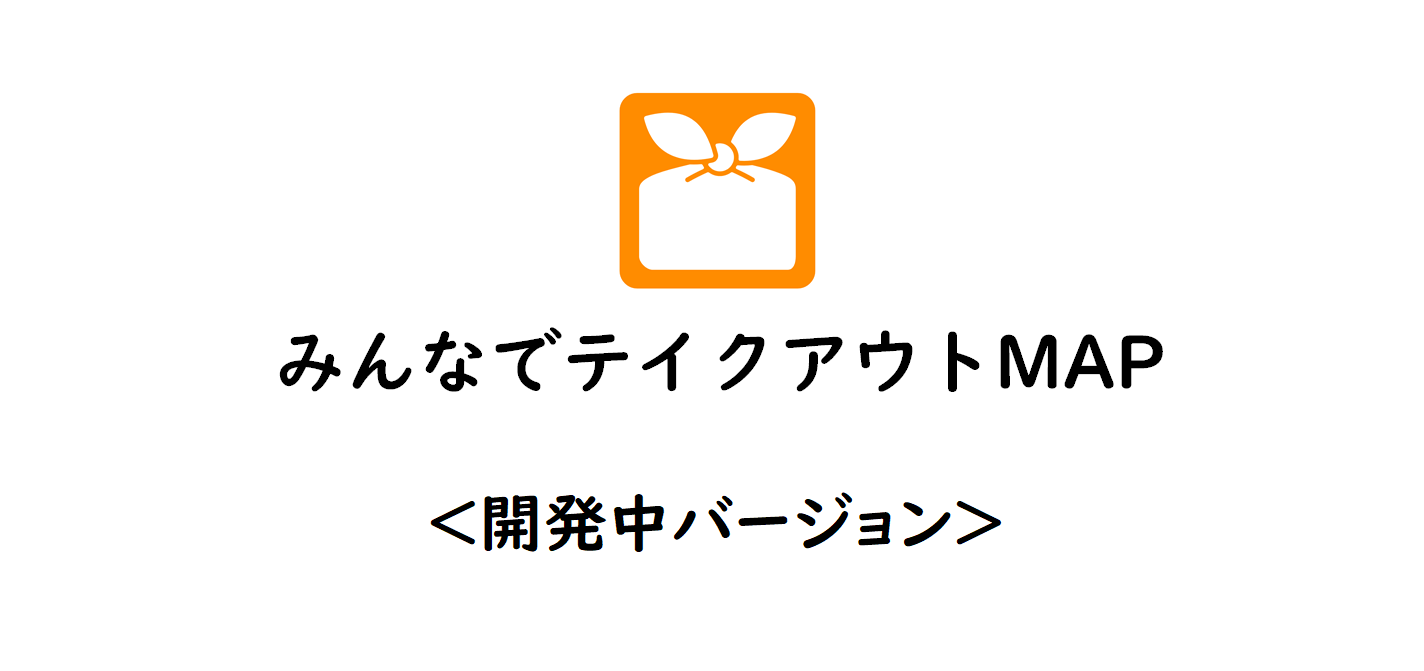
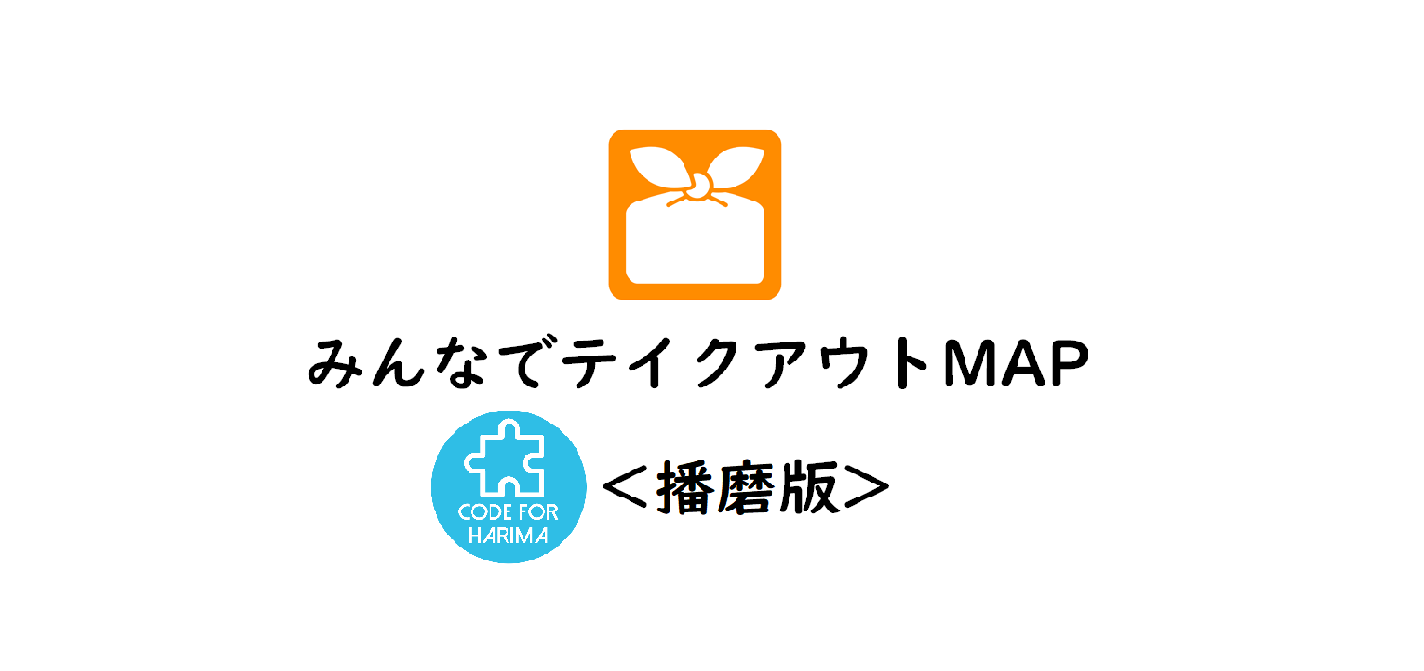
Code for Harima用に変更

Changed region(s): [[0.2781, 0.5961, 0.7107, 0.8644], [0.1854, 0.4769, 0.8343, 0.5961], [0.4017, 0.1192, 0.5871, 0.4471]]

diff --git a/index.html b/index.html
@@ -4,13 +4,13 @@
     <head>
         <meta name="viewport" content="width=device-width, user-scalable=yes, initial-scale=1, maximum-scale=1, minimum-scale=1" />
         <meta charset="utf-8" />
-        <title>みんなでテイクアウトMAP -開発版-</title>
-        <meta property="og:url" content="https://k-sakanoshita.github.io/takeaway/" />
+        <title>みんなでテイクアウトMAP -Code for Harima-</title>
+        <meta property="og:url" content="https://codeforharima.github.io/takeaway/" />
         <meta property="og:type" content="website" />
         <meta property="og:title" content="みんなでテイクアウトMAP" />
         <meta property="og:description" content="みんなでテイクアウト出来るお店を共有しよう" />
-        <meta property="og:image" content="https://k-sakanoshita.github.io/takeaway/image/thumbnail.png" />
-        <link rel="canonical" href="https://k-sakanoshita.github.io/takeaway/">
+        <meta property="og:image" content="https://codeforharima.github.io/takeaway/image/thumbnail.png" />
+        <link rel="canonical" href="https://codeforharima.github.io/takeaway/">
         <link rel="shortcut icon" href="favicon.ico" />
         <link rel="stylesheet" href="takeaway.css" />
         <link rel="stylesheet" href="https://cdnjs.cloudflare.com/ajax/libs/tempusdominus-bootstrap-4/5.1.2/css/tempusdominus-bootstrap-4.min.css" />
